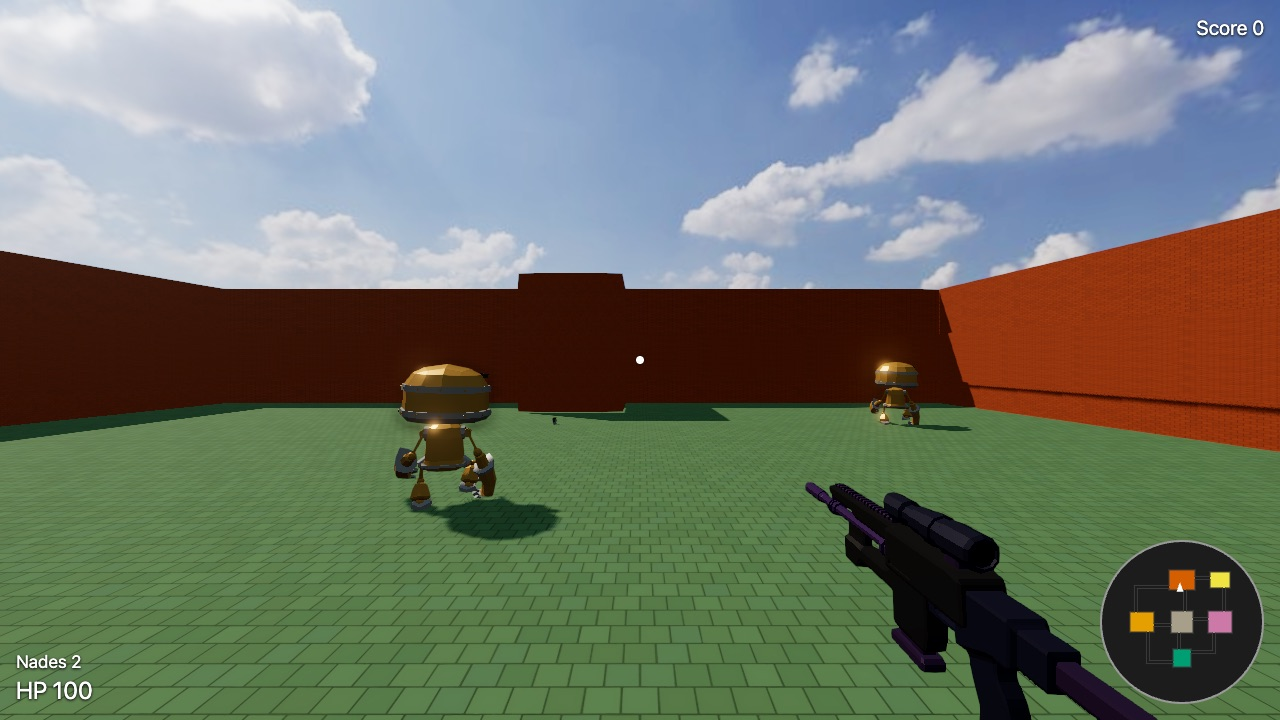
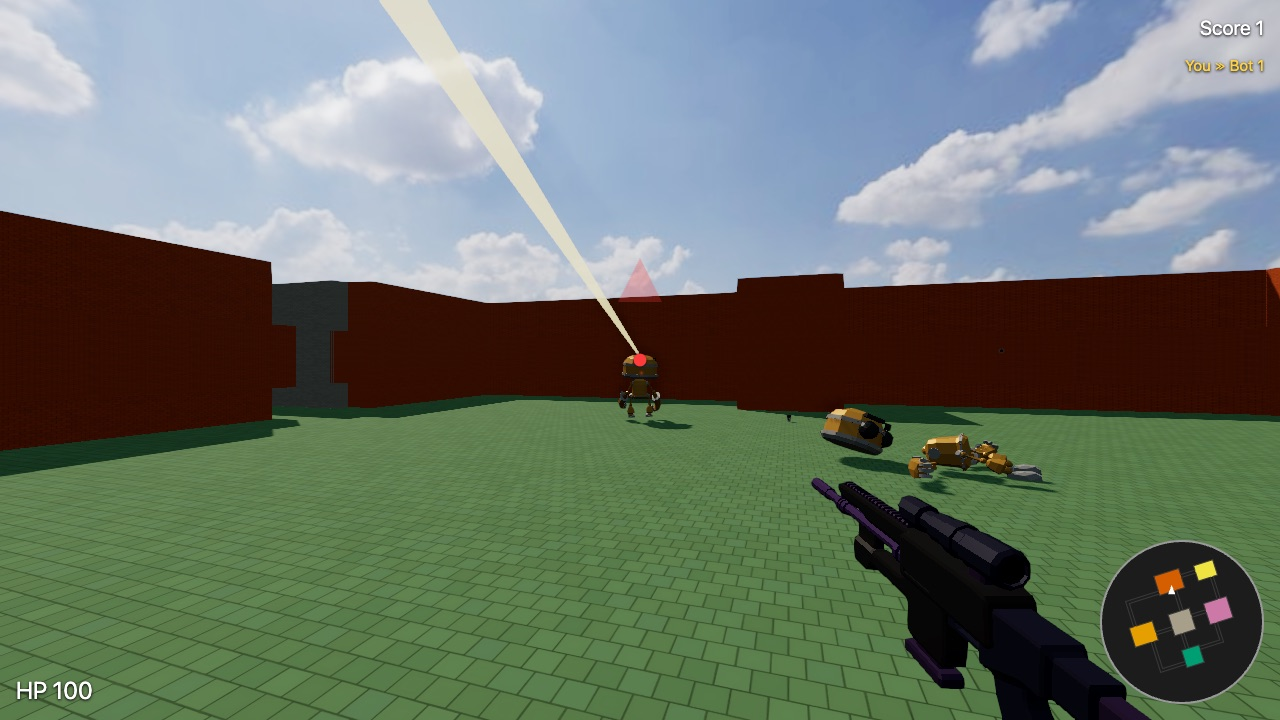
docs: bring the README up to date with the game it describes
The prose had the Foothold premise spliced onto the front of the old opening
sentence and left a run-on paragraph behind. Rewritten properly, and the
enemies are called defenders throughout rather than bots, which is what the
start screen calls them.

All three screenshots recaptured. Every one predated the rename, so the first
thing a visitor saw was a shot of a start screen that no longer exists --
along with bullet marks as black squares, no bodies, and none of the shadow
fixes. The new ones show the actual game: the brief over the key art, a
firefight in the Hall with a defender already down and the killfeed reading
the kill, and the Yard looking down the map's longest sightline.

Two things learned while capturing them, both worth writing down.

Spawn selection deliberately avoids the player's line of sight (R11/AE3), so
a drop essentially never happens where you are already looking -- eight kills
in a row respawned out of frame. That is the safety rule working as designed,
but it does mean the drone is mostly seen in the corner of your eye, and it
is why the wide shot is a vista rather than a delivery.

Also dropped the hardcoded unit-test count from the testing section. It was
already stale by eleven and would go stale again on the next commit.

Also added learnings/ to the documentation list -- the retrospectives are the
most useful thing in the repo for anyone picking it up, and nothing pointed
at them.

Suite 521 pass, build clean.

diff --git a/README.md b/README.md
@@ -1,52 +1,53 @@
 # Foothold
 
-A browser-based 3D shooter, built with Three.js and Rapier physics. You are
-put down alone on a compound that has to be clear before the main landing can
-come down on it, and the machines holding it are being reinforced by drone
-while you work. Clear enough of them and the site is yours. Bots patrol, chase, search a last-seen position when they lose
-sight of you, and retreat toward a doorway when hurt. They only acquire
-what is inside a forward cone, so flanking is worth doing — though shooting
-one alerts it, and it will turn on you. Each district — a
-tight chamber warren, an open long-sightline yard, a pillared hall, a
-cover-block maze, a scattered-cover bazaar — is identifiable by its
-structure alone, with its own accent color as a secondary cue, echoed on a
-player-only rotating minimap, so you always know where you are without
-giving away anything about the bots. A killfeed under the score narrates
-every kill as it happens — yours in gold, your death in red — without
-ever revealing a position.
+A browser-based 3D shooter, built with Three.js and Rapier physics.
 
-The machine gun is everyone's default, infinite weapon from the moment
-they spawn — player and bots alike, no pickup required. Grenades spawn as
-a pickup in each outlying district and respawn on a timer, so holding
-those matters.
+You are put down alone on a compound that has to be clear before the main
+landing can come down on it, and the machines holding it are being reinforced
+by drone while you work. Clear fifteen of them and the site is yours.
 
-Nobody appears out of thin air and nobody vanishes. Arrivals are flown in:
-a drone releases them overhead and peels away, and the fall is real
-simulation, so a descending bot can be shot on the way down and cannot
-shoot back until it lands. The dead stay dead in place — a body is left
-where it fell, for the rest of the match, so a room tells you what happened
-in it. Bodies are scenery: shots and sightlines pass straight through
-them.
+The map is six districts joined by a web of corridors, and each one is
+identifiable by its structure alone — a tight chamber warren, an open
+long-sightline yard, a pillared hall, a cover-block maze, a scattered-cover
+bazaar — with its own accent colour as a secondary cue, echoed on a
+player-only rotating minimap. So you always know where you are without the
+map giving away anything about where the defenders are. A killfeed under the
+score narrates every kill as it happens, yours in gold and your death in red,
+without ever revealing a position.
+
+Defenders patrol, chase, search a last-seen position when they lose sight of
+you, and retreat toward a doorway when hurt. They only acquire what is inside
+a forward cone, so flanking is worth doing — though shooting one alerts it,
+and it will turn on you. The machine gun is everyone's default, infinite
+weapon from the moment they spawn, no pickup required. Grenades spawn as a
+pickup in each outlying district and respawn on a timer, so holding those
+matters.
+
+Nobody appears out of thin air and nobody vanishes. Arrivals are flown in: a
+drone releases them overhead and peels away, and the fall is real simulation,
+so a descending defender can be shot on the way down and cannot shoot back
+until it lands. The dead stay dead in place — a body is left where it fell,
+for the rest of the match, so a room tells you what happened in it. Bodies
+are scenery: shots and sightlines pass straight through them.
 
 Every shot reads as one: a muzzle flash, a tracer down its path, a spark
-where it lands, and a bullet hole with a scorch ring that stays on the
-wall. A grenade goes off as a fireball and lights the room around it.
-Those four effect shapes are soft radial gradients, generated into pixel
-data at load rather than shipped as images — no download, no attribution,
-and their shape is unit-testable, which matters because nothing else about
-a render can be. On top of that the arena runs a light post-processing
-pass (bloom, ambient occlusion, a skybox) over real sourced models and
-audio for the weapons.
+where it lands, and a bullet hole with a scorch ring that stays on the wall.
+A grenade goes off as a fireball and lights the room around it. Those effect
+shapes are soft radial gradients, generated into pixel data at load rather
+than shipped as images — no download, no attribution, and their shape is
+unit-testable, which matters because most of what a renderer does is not. On
+top of that the arena runs a light post-processing pass (bloom, ambient
+occlusion, a skybox) over real sourced models and audio.
 
 ## Screenshots
 
 <table>
 <tr>
-<td width="50%"><img src="docs/screenshots/01-start-screen.jpg" alt="Start screen, arena visible behind the play prompt"></td>
-<td width="50%"><img src="docs/screenshots/02-firefight.jpg" alt="Two bots in the Hall district, the near one firing"></td>
+<td width="50%"><img src="docs/screenshots/01-start-screen.jpg" alt="Start screen: the mission brief over key art of the compound, with drones lowering defenders in"></td>
+<td width="50%"><img src="docs/screenshots/02-firefight.jpg" alt="Trading fire with a defender in the Hall, another already down on the right"></td>
 </tr>
 <tr>
-<td width="100%" colspan="2"><img src="docs/screenshots/03-arena-wide.jpg" alt="The Yard district looking east down the arena's longest sightline, amber accent walls under the skybox"></td>
+<td width="100%" colspan="2"><img src="docs/screenshots/03-arena-wide.jpg" alt="The Yard looking east down the map's longest sightline, through the doorway into the spoke corridor beyond"></td>
 </tr>
 </table>
 
@@ -130,7 +131,7 @@ It exists because this project could see its simulation in complete detail
 and could not see its output at all — and that is where the defects
 collected. Shadow seams along every wall base, bullet marks rendering as hard
 black squares, a district that silently stopped casting shadows: found by a
-person looking at the screen, invisible to every one of the 510 unit tests.
+person looking at the screen, invisible to every one of the unit tests.
 
 Every check is a **numeric property compared against another measurement from
 the same frame** — the seam against the floor beside it, shadowed ground
@@ -151,6 +152,9 @@ cause is two boxes sharing a volume, so it is asserted in
   feature pass (arena, combat feel, minimap, armory loop, killfeed, visual
   fidelity, asymmetric districts): product requirements, key technical
   decisions, and the implementation unit breakdown.
+- `learnings/` — periodic full-project retrospectives and the study plan they
+  feed. Blunt about what shipped broken and why; the most useful thing in
+  here if you are picking the project up.
 - `docs/solutions/` — documented bugs and their root causes, organized by
   category with searchable frontmatter. Worth checking before touching
   bot AI or simulation code.
